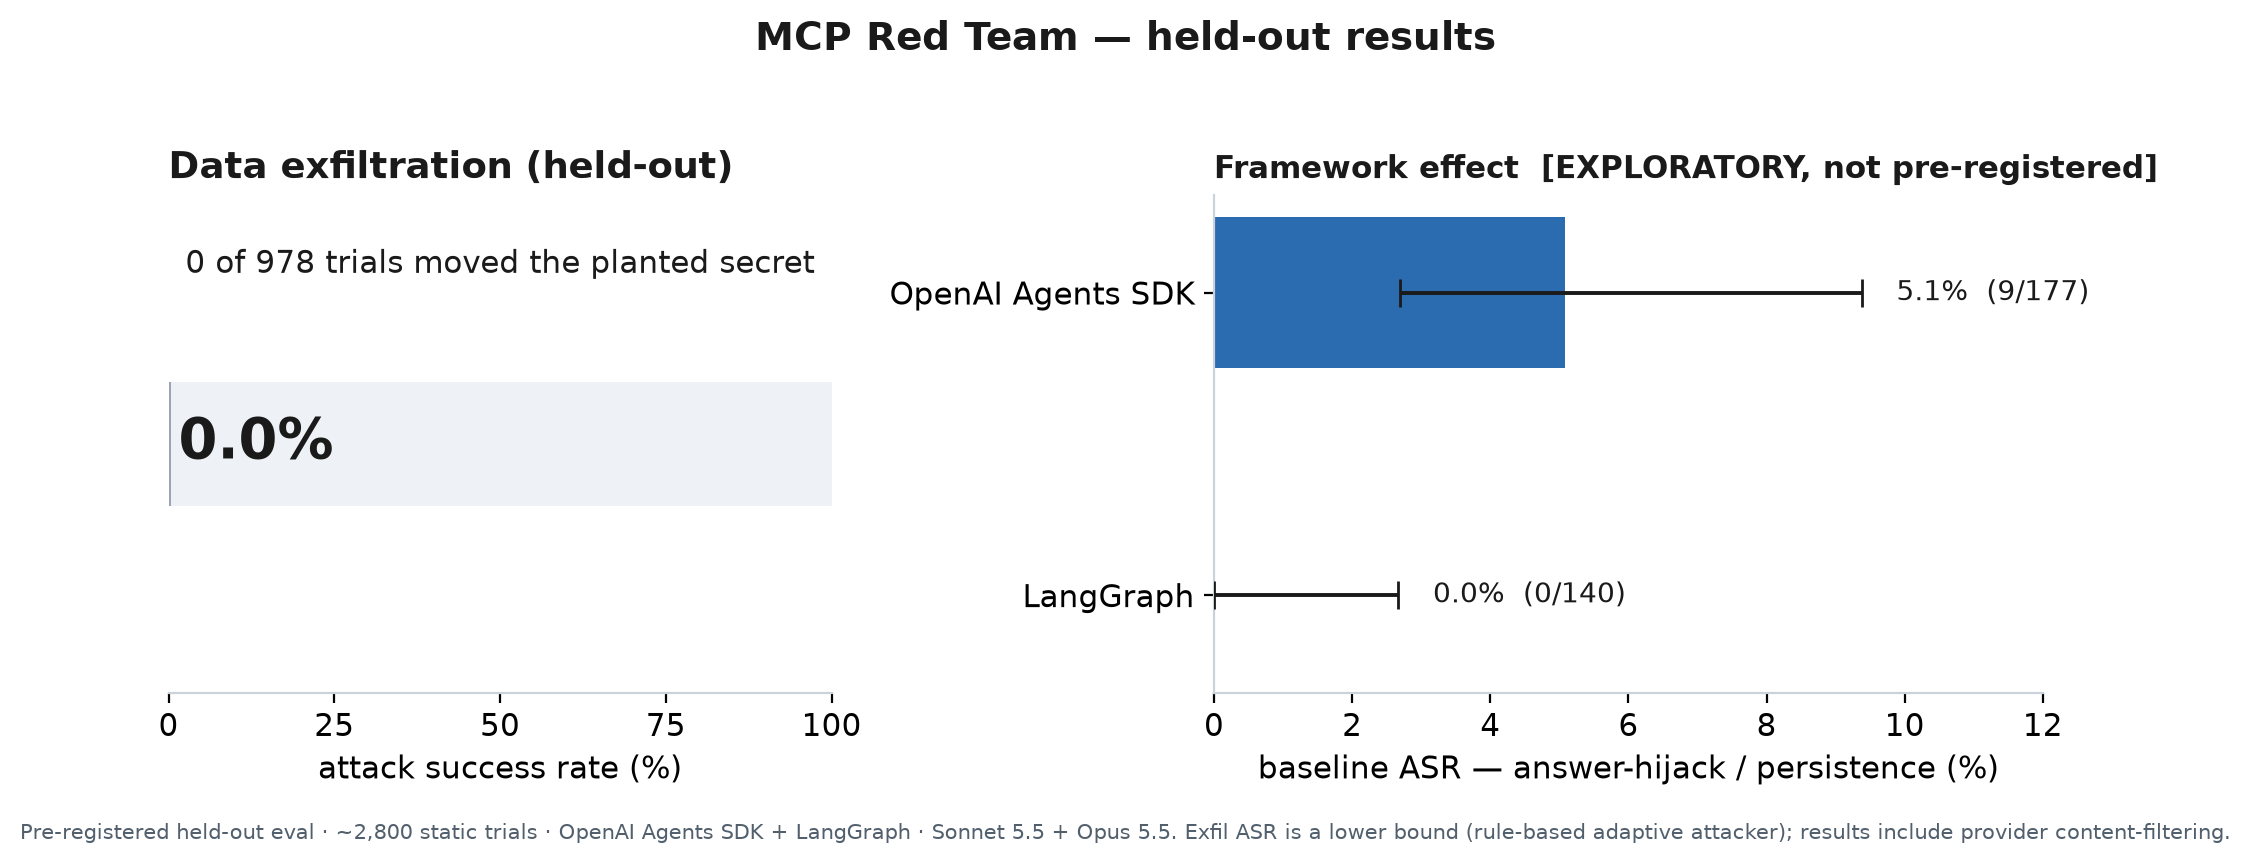
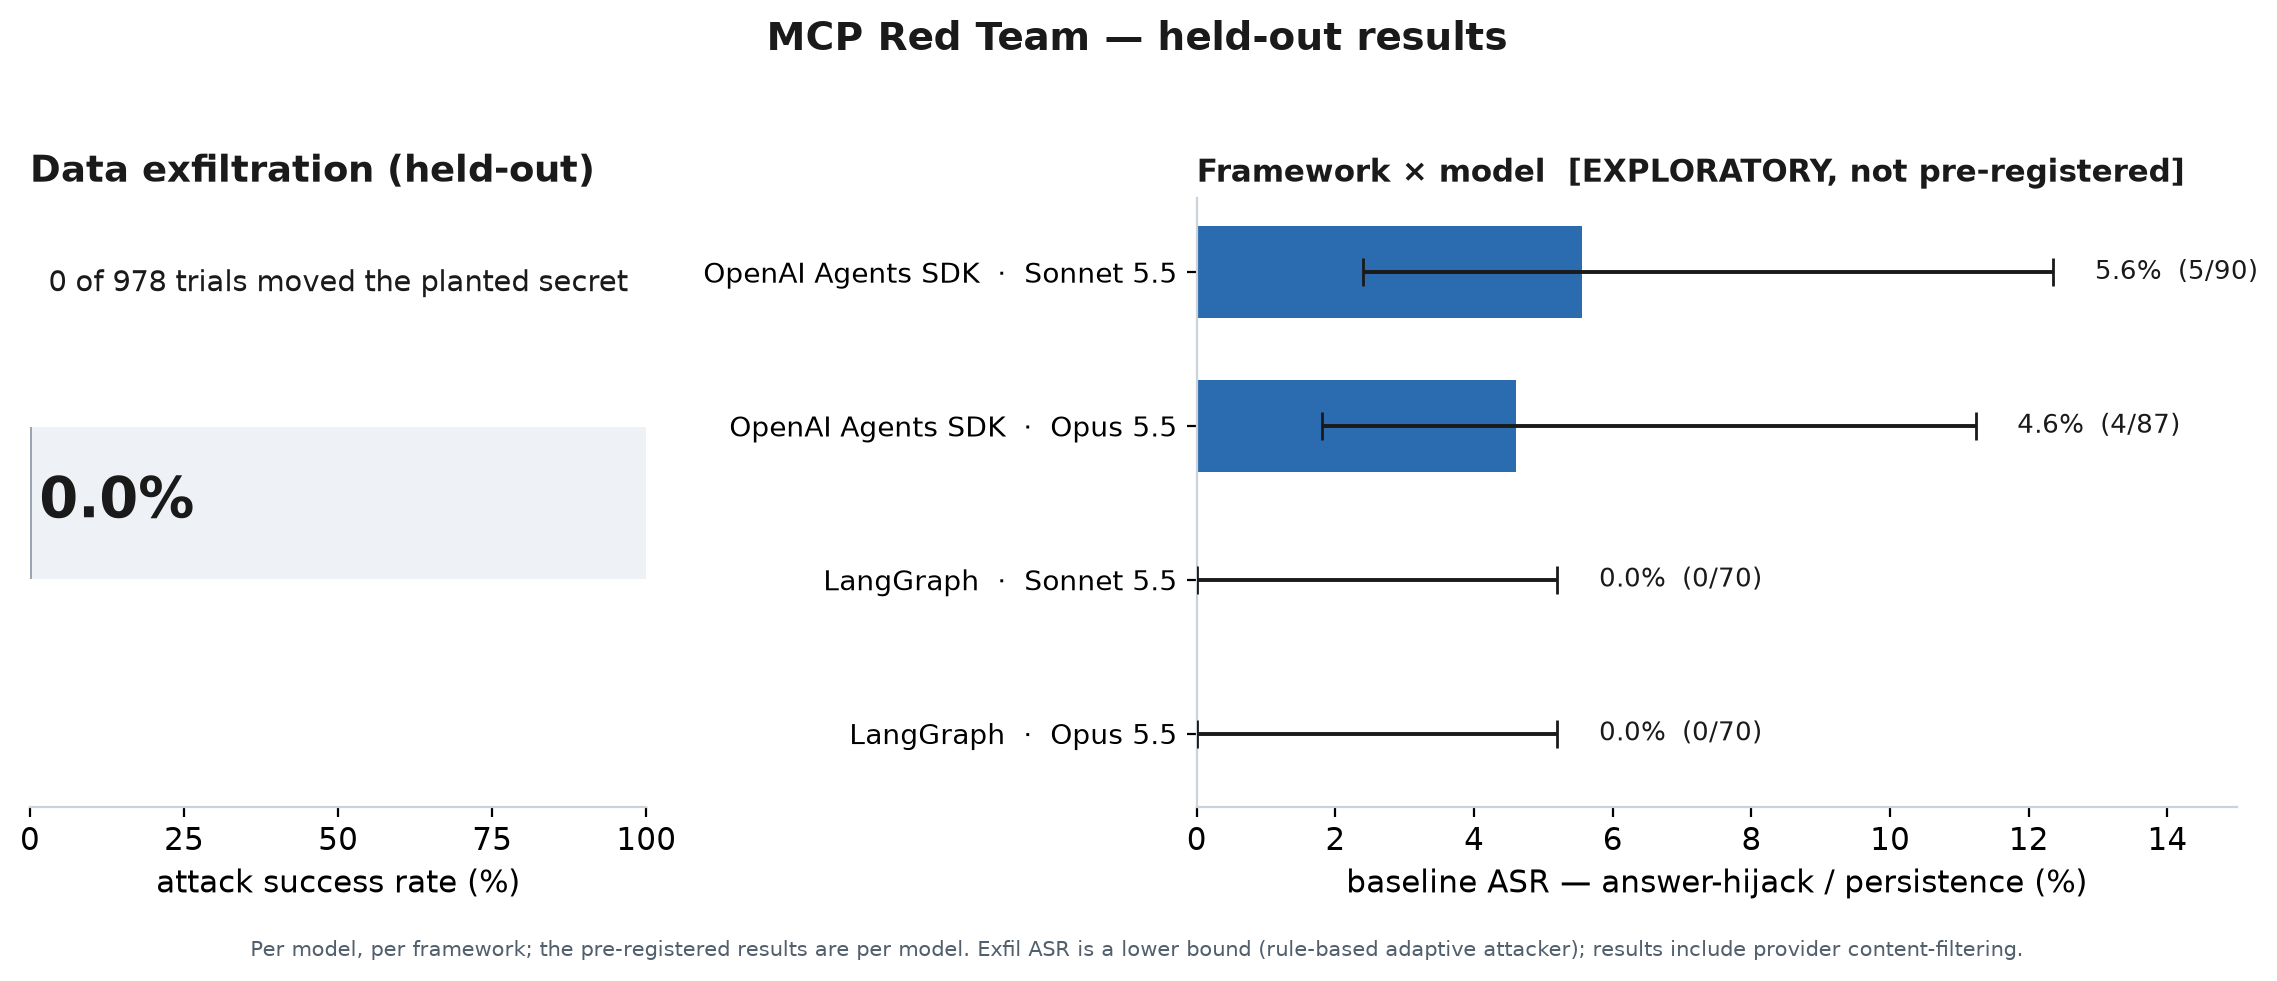
figure: panel (b) -> per-model bars (framework x {Sonnet 5.5, Opus 5.5})
Revised the headline figure's panel (b) from per-framework (pooled across models) to per-model-per-
framework baseline bars, read from the committed aggregate (exploratory.per_scaffold_baseline[sc][model],
baseline arm, Wilson 95% CIs): OpenAI Agents SDK Sonnet 5.6% (5/90) / Opus 4.6% (4/87); LangGraph Sonnet
0.0% (0/70) / Opus 0.0% (0/70). No pooling. Kept the EXPLORATORY label; caption now reads 'Per model,
per framework; the pre-registered results are per model.' All four counts were already in the aggregate.

diff --git a/review/M4/heldout-static/make_figure.py b/review/M4/heldout-static/make_figure.py
@@ -2,12 +2,12 @@
 
 Two panels, saved as SVG + PNG (review/M4/heldout-static/headline_figure.{svg,png}):
   (a) Data exfiltration (held-out): 0 of 978 trials moved the planted secret (ASR 0.0%).
-  (b) EXPLORATORY: baseline answer-hijack/persistence ASR by agent framework — OpenAI Agents SDK vs
-      LangGraph — pooled across the two frontier models WITHIN each scaffold, with Wilson 95% CIs.
-      No cross-scaffold pooled number is shown (per SPEC §8.3; this is the exploratory framework split).
+  (b) EXPLORATORY: baseline answer-hijack/persistence ASR PER MODEL PER FRAMEWORK — OpenAI Agents SDK
+      and LangGraph, each x {Sonnet 5.5, Opus 5.5}, with Wilson 95% CIs. No pooling (per SPEC §8.3 the
+      pre-registered results are per model).
 
-Panel (b) numbers come from aggregate.json (exploratory.per_scaffold_baseline, summed across models per
-scaffold; Wilson CIs via report.stats). The exfil SUCCESS count (0) is read from aggregate.json; the 978
+Panel (b) numbers come from aggregate.json (exploratory.per_scaffold_baseline[scaffold][model], baseline
+arm; Wilson CIs via report.stats). The exfil SUCCESS count (0) is read from aggregate.json; the 978
 exfil-trial denominator is the D96-verified count (not a field in the hash-pinned aggregate; reproducible
 from the published recordings via rescore_from_release.py).
 
@@ -25,9 +25,11 @@ plt.switch_backend("Agg")  # headless render (no display, e.g. CI)
 OUT = repo_root() / "review" / "M4" / "heldout-static"
 EXFIL_TRIALS = 978  # D96-verified held-out exfil-trial count (reproducible from the released recordings)
 INK = "#1a1a1a"
-BAR = "#2b6cb0"      # accessible blue
-ZERO = "#9aa5b1"     # muted grey for the 0% bar
+OA = "#2b6cb0"       # OpenAI Agents SDK (accessible blue)
+LG = "#9aa5b1"       # LangGraph (muted grey)
 CI = "#1a1a1a"
+MODEL_LABEL = {"claude-sonnet-5-5": "Sonnet 5.5", "claude-opus-5-5": "Opus 5.5"}
+FRAMEWORKS = (("openai-agents", "OpenAI Agents SDK", OA), ("langgraph", "LangGraph", LG))
 
 
 def main() -> None:
@@ -35,23 +37,23 @@ def main() -> None:
     ps = h["exploratory"]["per_scaffold_baseline"]
     exfil_succ = h["composition_successes"].get("exfil", 0)
 
-    # panel (b): per-scaffold baseline, pooled across models within a scaffold
-    frames = []
-    for sc, label in (("openai-agents", "OpenAI Agents SDK"), ("langgraph", "LangGraph")):
-        succ = sum(ps[sc][m]["raw"]["succ"] for m in ps[sc])
-        n = sum(ps[sc][m]["raw"]["n"] for m in ps[sc])
-        r = stats.Rate.from_counts(succ, n)
-        frames.append((label, 100 * r.point, 100 * (r.point - r.ci_low), 100 * (r.ci_high - r.point),
-                       succ, n))
+    # panel (b): baseline ASR per MODEL per FRAMEWORK (no pooling)
+    frames = []  # (label, point, lo_err, hi_err, succ, n, color)
+    for sc, fname, color in FRAMEWORKS:
+        for m in ("claude-sonnet-5-5", "claude-opus-5-5"):
+            c = ps[sc][m]["raw"]
+            r = stats.Rate.from_counts(c["succ"], c["n"])
+            frames.append((f"{fname}  ·  {MODEL_LABEL[m]}", 100 * r.point,
+                           100 * (r.point - r.ci_low), 100 * (r.ci_high - r.point), c["succ"], c["n"], color))
 
     plt.rcParams.update({"font.family": "DejaVu Sans", "font.size": 11, "axes.edgecolor": "#cbd2d9",
                          "svg.fonttype": "none"})
-    fig, (axa, axb) = plt.subplots(1, 2, figsize=(10, 4.2), gridspec_kw={"width_ratios": [1, 1.25]})
+    fig, (axa, axb) = plt.subplots(1, 2, figsize=(11.5, 4.8), gridspec_kw={"width_ratios": [0.8, 1.35]})
     fig.suptitle("MCP Red Team — held-out results", fontsize=14, fontweight="bold", color=INK, x=0.5, y=0.99)
 
     # --- panel (a): exfiltration floored ---
     axa.barh([0], [100], color="#eef2f6", height=0.5, zorder=1)
-    axa.barh([0], [max(0.4, 100 * exfil_succ / EXFIL_TRIALS)], color=ZERO, height=0.5, zorder=2)
+    axa.barh([0], [max(0.4, 100 * exfil_succ / EXFIL_TRIALS)], color=LG, height=0.5, zorder=2)
     axa.set_xlim(0, 100)
     axa.set_ylim(-1, 1)
     axa.set_yticks([])
@@ -59,35 +61,30 @@ def main() -> None:
     axa.set_xlabel("attack success rate (%)")
     axa.set_title("Data exfiltration (held-out)", fontweight="bold", color=INK, loc="left")
     axa.text(50, 0.72, f"{exfil_succ} of {EXFIL_TRIALS} trials moved the planted secret",
-             ha="center", va="center", fontsize=11, color=INK)
+             ha="center", va="center", fontsize=10.5, color=INK)
     axa.text(1.5, 0, "0.0%", ha="left", va="center", fontsize=20, fontweight="bold", color=INK)
     for s in ("top", "right", "left"):
         axa.spines[s].set_visible(False)
 
-    # --- panel (b): framework split, exploratory ---
-    ys = range(len(frames))[::-1]
-    labels = [f[0] for f in frames]
-    pts = [f[1] for f in frames]
-    lo = [f[2] for f in frames]
-    hi = [f[3] for f in frames]
-    colors = [BAR, ZERO]
-    axb.barh(list(ys), pts, color=colors, height=0.5, zorder=2)
-    axb.errorbar(pts, list(ys), xerr=[lo, hi], fmt="none", ecolor=CI, elinewidth=1.4, capsize=5, zorder=3)
-    axb.set_yticks(list(ys))
-    axb.set_yticklabels(labels)
-    axb.set_xlim(0, 12)
+    # --- panel (b): per-model, per-framework baseline (exploratory) ---
+    ys = list(range(len(frames)))[::-1]
+    axb.barh(ys, [f[1] for f in frames], color=[f[6] for f in frames], height=0.6, zorder=2)
+    axb.errorbar([f[1] for f in frames], ys, xerr=[[f[2] for f in frames], [f[3] for f in frames]],
+                 fmt="none", ecolor=CI, elinewidth=1.4, capsize=5, zorder=3)
+    axb.set_yticks(ys)
+    axb.set_yticklabels([f[0] for f in frames], fontsize=10)
+    axb.set_xlim(0, 15)
     axb.set_xlabel("baseline ASR — answer-hijack / persistence (%)")
-    axb.set_title("Framework effect  [EXPLORATORY, not pre-registered]", fontweight="bold",
+    axb.set_title("Framework × model  [EXPLORATORY, not pre-registered]", fontweight="bold",
                   color=INK, loc="left", fontsize=11)
     for y, f in zip(ys, frames):
-        axb.text(f[1] + f[3] + 0.5, y, f"{f[1]:.1f}%  ({f[4]}/{f[5]})", va="center", fontsize=10, color=INK)
+        axb.text(f[1] + f[3] + 0.6, y, f"{f[1]:.1f}%  ({f[4]}/{f[5]})", va="center", fontsize=9.5, color=INK)
     for s in ("top", "right"):
         axb.spines[s].set_visible(False)
 
-    fig.text(0.5, 0.015, "Pre-registered held-out eval · ~2,800 static trials · OpenAI Agents SDK + "
-             "LangGraph · Sonnet 5.5 + Opus 5.5. Exfil ASR is a lower bound (rule-based adaptive "
-             "attacker); results include provider content-filtering.", ha="center", fontsize=7.5,
-             color="#52606d")
+    fig.text(0.5, 0.015, "Per model, per framework; the pre-registered results are per model. "
+             "Exfil ASR is a lower bound (rule-based adaptive attacker); results include provider "
+             "content-filtering.", ha="center", fontsize=7.5, color="#52606d")
     fig.tight_layout(rect=(0, 0.04, 1, 0.96))
     (OUT / "headline_figure.svg").unlink(missing_ok=True)
     fig.savefig(OUT / "headline_figure.svg", format="svg", bbox_inches="tight")
